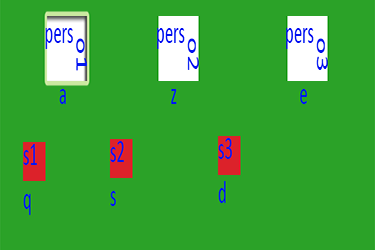
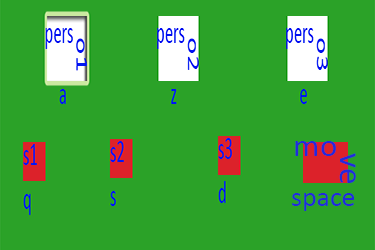
gui yolo

Changed region(s): [[0.7627, 0.56, 0.968, 0.84]]

diff --git a/src/fr/iut/tapawaru/gui/BottomPanel.java b/src/fr/iut/tapawaru/gui/BottomPanel.java
@@ -17,11 +17,14 @@ import fr.iut.tapawaru.team.Character;
 
 
 
+
+
 import javax.imageio.ImageIO;
 import javax.swing.AbstractButton;
 import javax.swing.JButton;
 import javax.swing.JPanel;
 
+import fr.iut.tapawaru.action.Move;
 import fr.iut.tapawaru.action.Terra;
 import fr.iut.tapawaru.map.Map;
 
@@ -378,6 +381,42 @@ public class BottomPanel extends JPanel implements KeyListener
 			break;
 		default:
 		}	
+		if(!(this.characterSelected == null))
+		{
+			
+			switch (e.getKeyChar())
+			{
+			case 'q':
+				Terra.glyphCWspin(this.map, map.getSelectedCell().getPosition());
+				this.mapGui.printGlyph(this.mapGui.getGraphics());
+				this.mapGui.changeCellState(map.getSelectedCell().getPosition().getPositionX(), map.getSelectedCell().getPosition()
+						.getPositionY());
+				this.paint(this.getGraphics());
+
+				break;
+			case 's':
+				Terra.glyphCCWspin(this.map, map.getSelectedCell().getPosition());
+				this.mapGui.printGlyph(this.mapGui.getGraphics());
+				this.mapGui.changeCellState(map.getSelectedCell().getPosition().getPositionX(), map.getSelectedCell().getPosition()
+						.getPositionY());
+				this.paint(this.getGraphics());
+				break;
+			case 'd':
+				Terra.glyphRandom(this.map, map.getSelectedCell().getPosition());
+				this.mapGui.printGlyph(this.mapGui.getGraphics());
+				this.mapGui.changeCellState(map.getSelectedCell().getPosition().getPositionX(), map.getSelectedCell().getPosition()
+						.getPositionY());
+				this.paint(this.getGraphics());
+				break;
+			case ' ':
+				System.out.println("space");
+				Move.simpleMove(this.map, this.characterSelected, this.map.getSelectedCell().getPosition());
+				this.repaint();
+				this.mapGui.printCell(this.mapGui.getGraphics());
+				break;
+			default:
+			}	
+		}
 		
 	}
 	@Override

diff --git a/src/fr/iut/tapawaru/gui/MapGUI.java b/src/fr/iut/tapawaru/gui/MapGUI.java
@@ -121,7 +121,7 @@ public class MapGUI extends JPanel implements MouseListener
 		}
 	}
 
-	private void printCharacter(Graphics g, int xSize, int ySize,String picture)
+	public void printCharacter(Graphics g, int xSize, int ySize,String picture)
 	{
 		if (!(this.map.getCharacter(xSize, ySize) == null))
 		{
